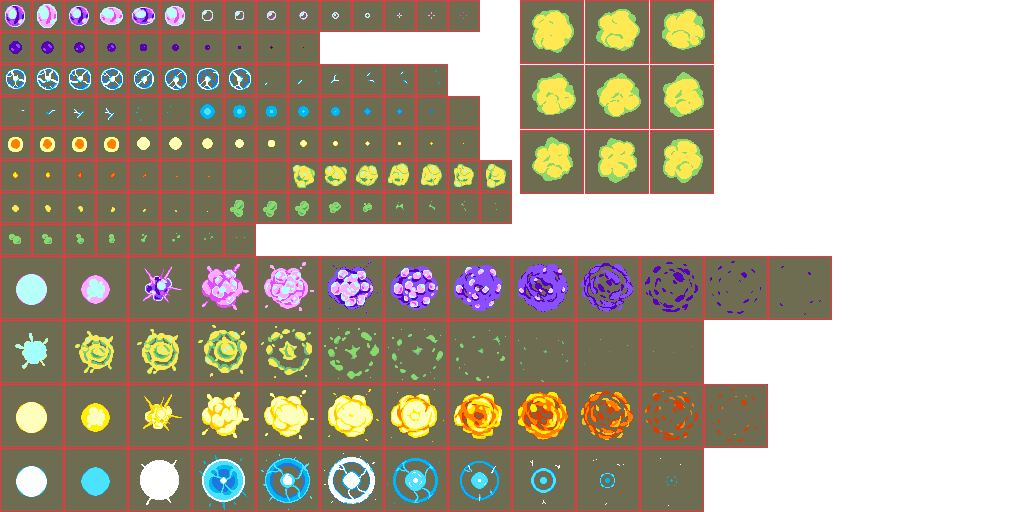
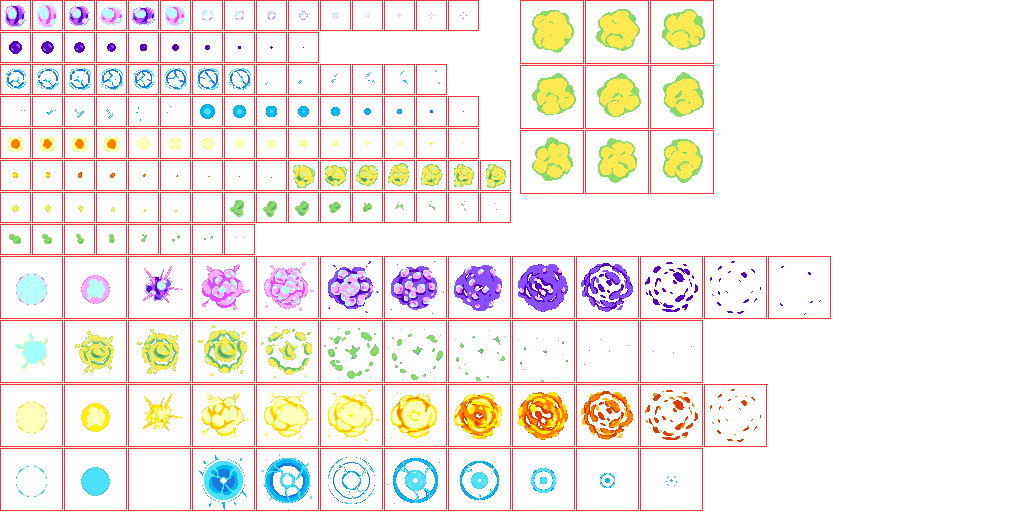
Wired in the graphic for the arcane shot exploding.

diff --git a/src/game/objects_core/Custom_Object/Custom_Object.ts b/src/game/objects_core/Custom_Object/Custom_Object.ts
@@ -26,9 +26,10 @@ import { CO_Particle_ƒ } from "../../core/data/Custom_Objects/Particle";
 import { CO_Target_Indicator_ƒ } from "../../core/data/Custom_Objects/Target_Indicator";
 import { CO_Shot_Javelin_ƒ } from "../../core/data/Custom_Objects/Shot_Javelin";
 import { CO_Shot_Magic_Missile_ƒ } from "../../core/data/Custom_Objects/Shot_Magic_Missile";
+import { CO_Shot_Magic_Missile_Explosion_ƒ } from "../../core/data/Custom_Objects/Shot_Magic_Missile_Explosion";
  
 
-export type Custom_Object_Type_Name = 'shot' | 'shot_javelin' | 'shot_magic_missile' | 'text_label' | 'skull_icon' | 'hit_star_bg' | 'hit_spark' | 'particle_system' | 'particle' | 'target_indicator';
+export type Custom_Object_Type_Name = 'shot' | 'shot_javelin' | 'shot_magic_missile' | 'shot_magic_missile_explosion' | 'text_label' | 'skull_icon' | 'hit_star_bg' | 'hit_spark' | 'particle_system' | 'particle' | 'target_indicator';
 
 export type Custom_Object_Data<Delegate_State_Type> = {
 	type_name: Custom_Object_Type_Name,
@@ -160,6 +161,7 @@ export const Custom_Object_ƒ = {
 			shot: CO_Shot_ƒ,
 			shot_javelin: CO_Shot_Javelin_ƒ,
 			shot_magic_missile: CO_Shot_Magic_Missile_ƒ,
+			shot_magic_missile_explosion: CO_Shot_Magic_Missile_Explosion_ƒ,
 			text_label: CO_Text_Label_ƒ,
 			skull_icon: CO_Skull_Icon_ƒ,
 			hit_star_bg: CO_Hit_Star_BG_ƒ,

diff --git a/src/game/core/data/Custom_Objects/Shot_Magic_Missile_Explosion.tsx b/src/game/core/data/Custom_Objects/Shot_Magic_Missile_Explosion.tsx
@@ -1,0 +1,40 @@
+
+
+import { zorder } from "../../constants/zorder";
+import { Change_Instance } from "../../../objects_core/Creature/Creature";
+import { Custom_Object_Data, Custom_Object_ƒ } from "../../../objects_core/Custom_Object/Custom_Object";
+import { Custom_Object_Delegate, Custom_Object_Delegate_Base_ƒ, Custom_Object_Update } from "../../../objects_core/Custom_Object/Custom_Object_Delegate";
+import { Gamespace_Pixel_Point } from "../../../interfaces";
+
+
+export const CO_Shot_Magic_Missile_Explosion_ƒ: Custom_Object_Delegate<{}> = {
+	...Custom_Object_Delegate_Base_ƒ,
+
+	process_single_frame: (
+		me: Custom_Object_Data<{}>,
+		tick: number,
+		parent_object: Custom_Object_Data<unknown> | undefined,
+	): {
+		data: Custom_Object_Update<{}>,
+		change_list: Array<Change_Instance>,
+		spawnees: Array<Custom_Object_Data<unknown>>,
+	} => {
+
+		return {
+			data: {
+				...Custom_Object_ƒ.get_base_object_state(me),
+				pixel_pos: me.pixel_pos,
+				delegate_state: me.delegate_state,
+			},
+			change_list: [],
+			spawnees: [],
+		}
+	},
+
+
+	yield_asset: () => 'arcane_shot_impact',
+
+	should_remove_at_animation_end: (me: Custom_Object_Data<unknown>) => (
+		true
+	),	
+}

diff --git a/src/game/core/data/Custom_Objects/Shot_Magic_Missile.tsx b/src/game/core/data/Custom_Objects/Shot_Magic_Missile.tsx
@@ -115,7 +115,18 @@ export const CO_Shot_Magic_Missile_ƒ: Custom_Object_Delegate<CO_Shot_State> = {
 		change_list: Array<Change_Instance>,
 		spawnees: Array<Custom_Object_Data<unknown>>,
 	} => {
-	
+
+		spawnees.push(New_Custom_Object({
+			accessors: Custom_Object_ƒ.get_accessors(me),
+			pixel_pos: me.pixel_pos,
+			type_name: 'shot_magic_missile_explosion',
+			creation_timestamp: tick,
+			text: ``,
+			parent_id: me.unique_id,
+			delegate_state: {
+			},
+		}));
+
 		console.error('do upon removal: magic missile ${tick}')
 		return {
 			change_list: change_list,
